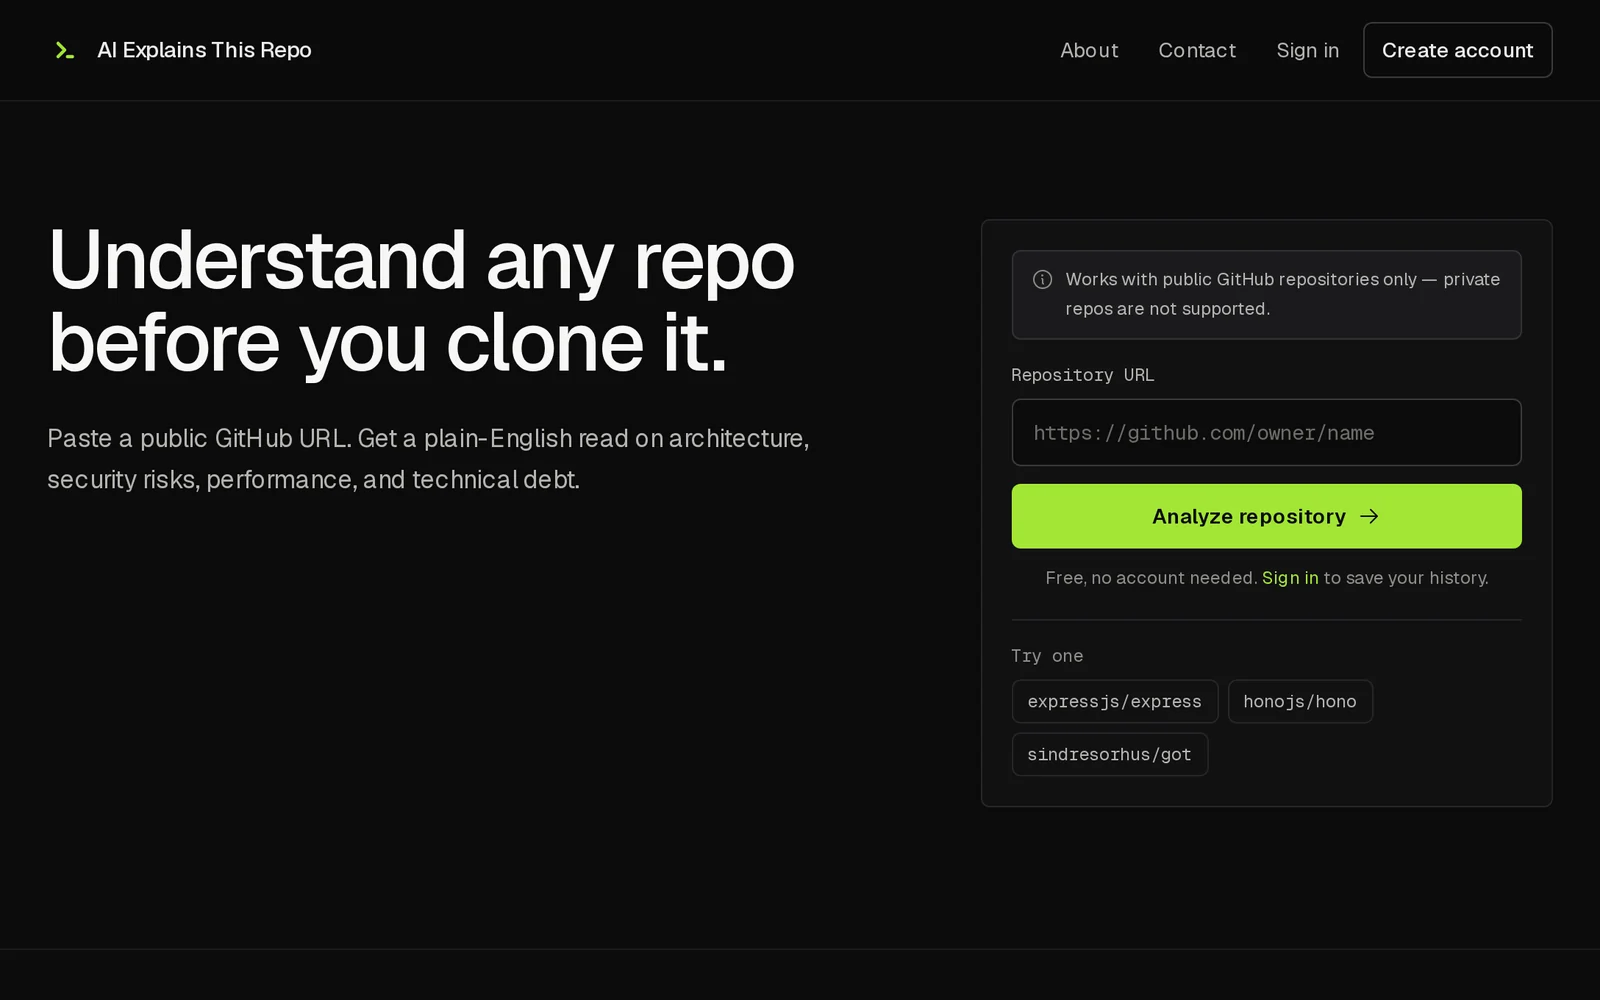
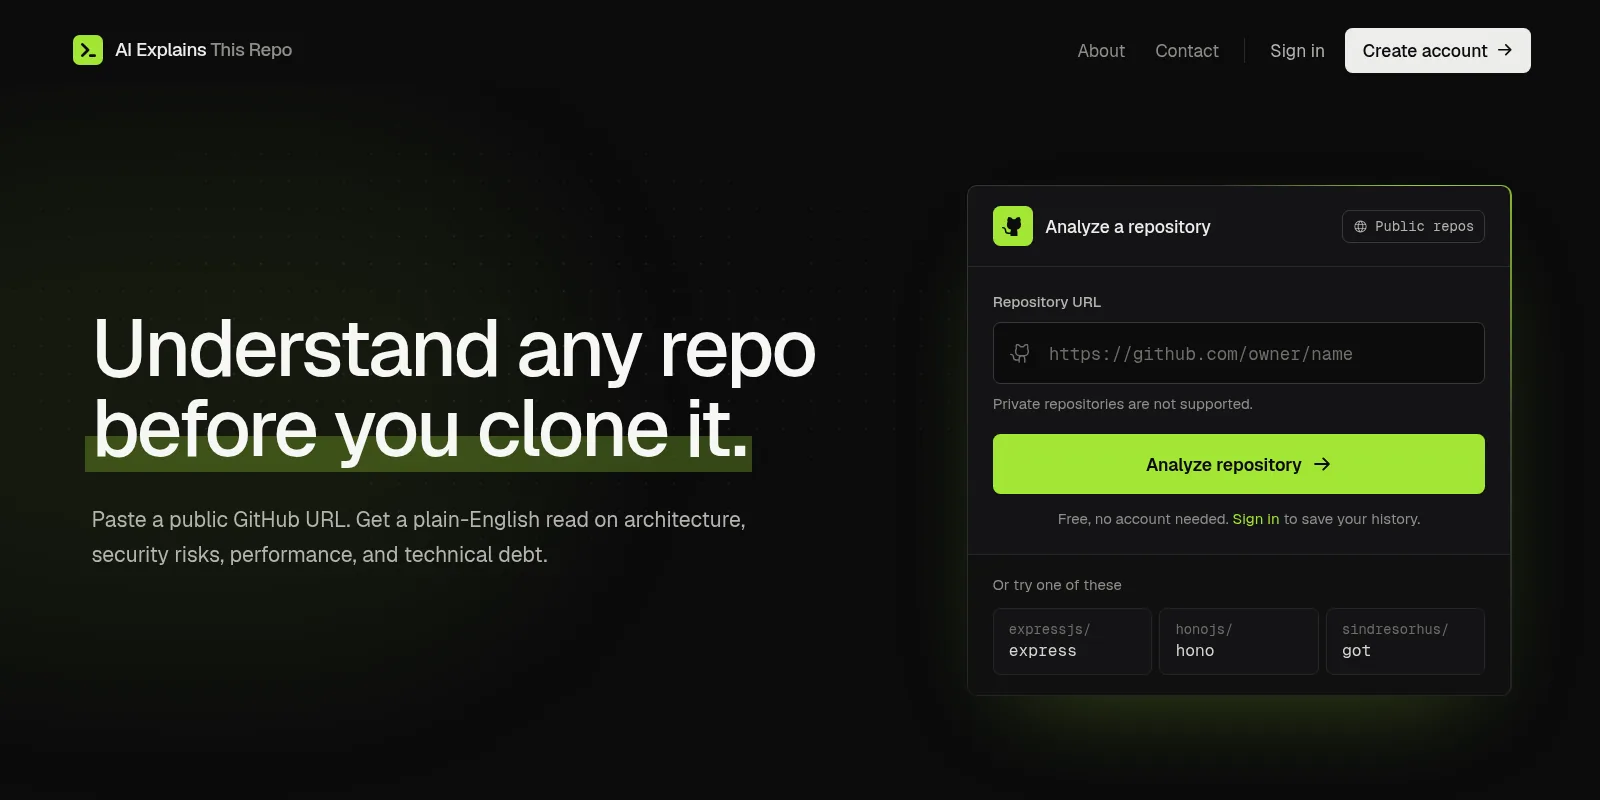
Update project screenshots and shorten thumbnail frame to 2:1

diff --git a/index.html b/index.html
@@ -61,7 +61,7 @@
   <link rel="stylesheet" href="/src/fonts/fonts.css?v=774cff5c" />
 
   <!-- Stylesheets -->
-  <link rel="stylesheet" href="src/style.css?v=40c68327" />
+  <link rel="stylesheet" href="src/style.css?v=cd982e60" />
 
   <!-- Structured Data for Rich Snippets -->
   <script type="application/ld+json">
@@ -351,7 +351,7 @@
     <p class="section-subtext">Selected full-stack and AI-powered projects. Full details, source code and live demos linked.</p>
     <div class="projects-list" id="projects-container">
       <div class="project-row" id="ai-explains-repo">
-        <img src="src/assets/projects/ai-explains-repo.webp?v=8ffad424" alt="Screenshot of AI Explains Repo home page" class="project-row-thumb" width="640" height="400" loading="lazy" decoding="async">
+        <img src="src/assets/projects/ai-explains-repo.webp?v=7b81ecac" alt="Screenshot of AI Explains Repo home page" class="project-row-thumb" width="640" height="320" loading="lazy" decoding="async">
         <div class="project-row-top">
           <h3 class="project-row-title">AI Explains Repo</h3>
           <div class="project-row-links">
@@ -372,7 +372,7 @@
         </div>
       </div>
       <div class="project-row" id="online-python-code-editor">
-        <img src="src/assets/projects/online-python-code-editor.webp?v=ef1050d1" alt="Screenshot of Online Python Code Editor home page" class="project-row-thumb" width="640" height="400" loading="lazy" decoding="async">
+        <img src="src/assets/projects/online-python-code-editor.webp?v=8cf814dc" alt="Screenshot of Online Python Code Editor home page" class="project-row-thumb" width="640" height="320" loading="lazy" decoding="async">
         <div class="project-row-top">
           <h3 class="project-row-title">Online Python Code Editor</h3>
           <div class="project-row-links">
@@ -394,7 +394,7 @@
         </div>
       </div>
       <div class="project-row" id="varch-dsl-to-diagrams">
-        <img src="src/assets/projects/varch-dsl-to-diagrams.webp?v=dd31e017" alt="Screenshot of the VArch home page with a live DSL editor rendering an architecture diagram" class="project-row-thumb" width="640" height="400" loading="lazy" decoding="async">
+        <img src="src/assets/projects/varch-dsl-to-diagrams.webp?v=2f5fcb3e" alt="Screenshot of the VArch home page with a live DSL editor rendering an architecture diagram" class="project-row-thumb" width="640" height="320" loading="lazy" decoding="async">
         <div class="project-row-top">
           <h3 class="project-row-title">VArch: DSL to Architecture Diagrams</h3>
           <div class="project-row-links">

diff --git a/blog/building-with-gemini-api/index.html b/blog/building-with-gemini-api/index.html
@@ -36,7 +36,7 @@
 
     <link rel="preload" href="/src/fonts/inter-latin.woff2" as="font" type="font/woff2" crossorigin />
     <link rel="stylesheet" href="/src/fonts/fonts.css?v=774cff5c" />
-    <link rel="stylesheet" href="/src/style.css?v=40c68327">
+    <link rel="stylesheet" href="/src/style.css?v=cd982e60">
     <link rel="icon" href="/favicon.ico" sizes="32x32" />
     <link rel="icon" type="image/png" href="/src/assets/favicon-32x32.png" sizes="32x32" />
     <link rel="apple-touch-icon" href="/src/assets/apple-touch-icon.png" sizes="180x180" />

diff --git a/blog/cpp-vs-node/index.html b/blog/cpp-vs-node/index.html
@@ -36,7 +36,7 @@
 
     <link rel="preload" href="/src/fonts/inter-latin.woff2" as="font" type="font/woff2" crossorigin />
     <link rel="stylesheet" href="/src/fonts/fonts.css?v=774cff5c" />
-    <link rel="stylesheet" href="/src/style.css?v=40c68327">
+    <link rel="stylesheet" href="/src/style.css?v=cd982e60">
     <link rel="icon" href="/favicon.ico" sizes="32x32" />
     <link rel="icon" type="image/png" href="/src/assets/favicon-32x32.png" sizes="32x32" />
     <link rel="apple-touch-icon" href="/src/assets/apple-touch-icon.png" sizes="180x180" />

diff --git a/blog/dont-use-boolean-in-database/index.html b/blog/dont-use-boolean-in-database/index.html
@@ -36,7 +36,7 @@
 
     <link rel="preload" href="/src/fonts/inter-latin.woff2" as="font" type="font/woff2" crossorigin />
     <link rel="stylesheet" href="/src/fonts/fonts.css?v=774cff5c" />
-    <link rel="stylesheet" href="/src/style.css?v=40c68327">
+    <link rel="stylesheet" href="/src/style.css?v=cd982e60">
     <link rel="icon" href="/favicon.ico" sizes="32x32" />
     <link rel="icon" type="image/png" href="/src/assets/favicon-32x32.png" sizes="32x32" />
     <link rel="apple-touch-icon" href="/src/assets/apple-touch-icon.png" sizes="180x180" />

diff --git a/blog/library-vs-framework/index.html b/blog/library-vs-framework/index.html
@@ -36,7 +36,7 @@
 
     <link rel="preload" href="/src/fonts/inter-latin.woff2" as="font" type="font/woff2" crossorigin />
     <link rel="stylesheet" href="/src/fonts/fonts.css?v=774cff5c" />
-    <link rel="stylesheet" href="/src/style.css?v=40c68327">
+    <link rel="stylesheet" href="/src/style.css?v=cd982e60">
     <link rel="icon" href="/favicon.ico" sizes="32x32" />
     <link rel="icon" type="image/png" href="/src/assets/favicon-32x32.png" sizes="32x32" />
     <link rel="apple-touch-icon" href="/src/assets/apple-touch-icon.png" sizes="180x180" />

diff --git a/blog/local-large-file-upload-tracker/index.html b/blog/local-large-file-upload-tracker/index.html
@@ -36,7 +36,7 @@
 
     <link rel="preload" href="/src/fonts/inter-latin.woff2" as="font" type="font/woff2" crossorigin />
     <link rel="stylesheet" href="/src/fonts/fonts.css?v=774cff5c" />
-    <link rel="stylesheet" href="/src/style.css?v=40c68327">
+    <link rel="stylesheet" href="/src/style.css?v=cd982e60">
     <link rel="icon" href="/favicon.ico" sizes="32x32" />
     <link rel="icon" type="image/png" href="/src/assets/favicon-32x32.png" sizes="32x32" />
     <link rel="apple-touch-icon" href="/src/assets/apple-touch-icon.png" sizes="180x180" />

diff --git a/blog/sql-vs-nosql/index.html b/blog/sql-vs-nosql/index.html
@@ -36,7 +36,7 @@
 
     <link rel="preload" href="/src/fonts/inter-latin.woff2" as="font" type="font/woff2" crossorigin />
     <link rel="stylesheet" href="/src/fonts/fonts.css?v=774cff5c" />
-    <link rel="stylesheet" href="/src/style.css?v=40c68327">
+    <link rel="stylesheet" href="/src/style.css?v=cd982e60">
     <link rel="icon" href="/favicon.ico" sizes="32x32" />
     <link rel="icon" type="image/png" href="/src/assets/favicon-32x32.png" sizes="32x32" />
     <link rel="apple-touch-icon" href="/src/assets/apple-touch-icon.png" sizes="180x180" />

diff --git a/content/blog/template.html b/content/blog/template.html
@@ -36,7 +36,7 @@
 
     <link rel="preload" href="/src/fonts/inter-latin.woff2" as="font" type="font/woff2" crossorigin />
     <link rel="stylesheet" href="/src/fonts/fonts.css?v=774cff5c" />
-    <link rel="stylesheet" href="/src/style.css?v=40c68327">
+    <link rel="stylesheet" href="/src/style.css?v=cd982e60">
     <link rel="icon" href="/favicon.ico" sizes="32x32" />
     <link rel="icon" type="image/png" href="/src/assets/favicon-32x32.png" sizes="32x32" />
     <link rel="apple-touch-icon" href="/src/assets/apple-touch-icon.png" sizes="180x180" />

diff --git a/src/blog/blog.html b/src/blog/blog.html
@@ -14,7 +14,7 @@
             window.location.replace(pages[id] || '/blog/');
         })();
     </script>
-    <link rel="stylesheet" href="/src/style.css?v=40c68327">
+    <link rel="stylesheet" href="/src/style.css?v=cd982e60">
     <link rel="stylesheet" href="/blog/post.css?v=b97ed6ba">
     <link rel="icon" href="/favicon.ico" sizes="32x32" />
     <link rel="icon" type="image/png" href="/src/assets/favicon-32x32.png" sizes="32x32" />

diff --git a/src/style.css b/src/style.css
@@ -2576,7 +2576,7 @@ footer {
 /* Project screenshot thumbnails */
 .project-row-thumb {
   width: 100%;
-  aspect-ratio: 16 / 10;
+  aspect-ratio: 2 / 1;
   object-fit: cover;
   object-position: top;
   border: 1px solid var(--border-color);
@@ -2586,8 +2586,3 @@ footer {
   display: block;
 }
 
-@media screen and (max-width: 768px) {
-  .project-row-thumb {
-    aspect-ratio: 16 / 11;
-  }
-}
